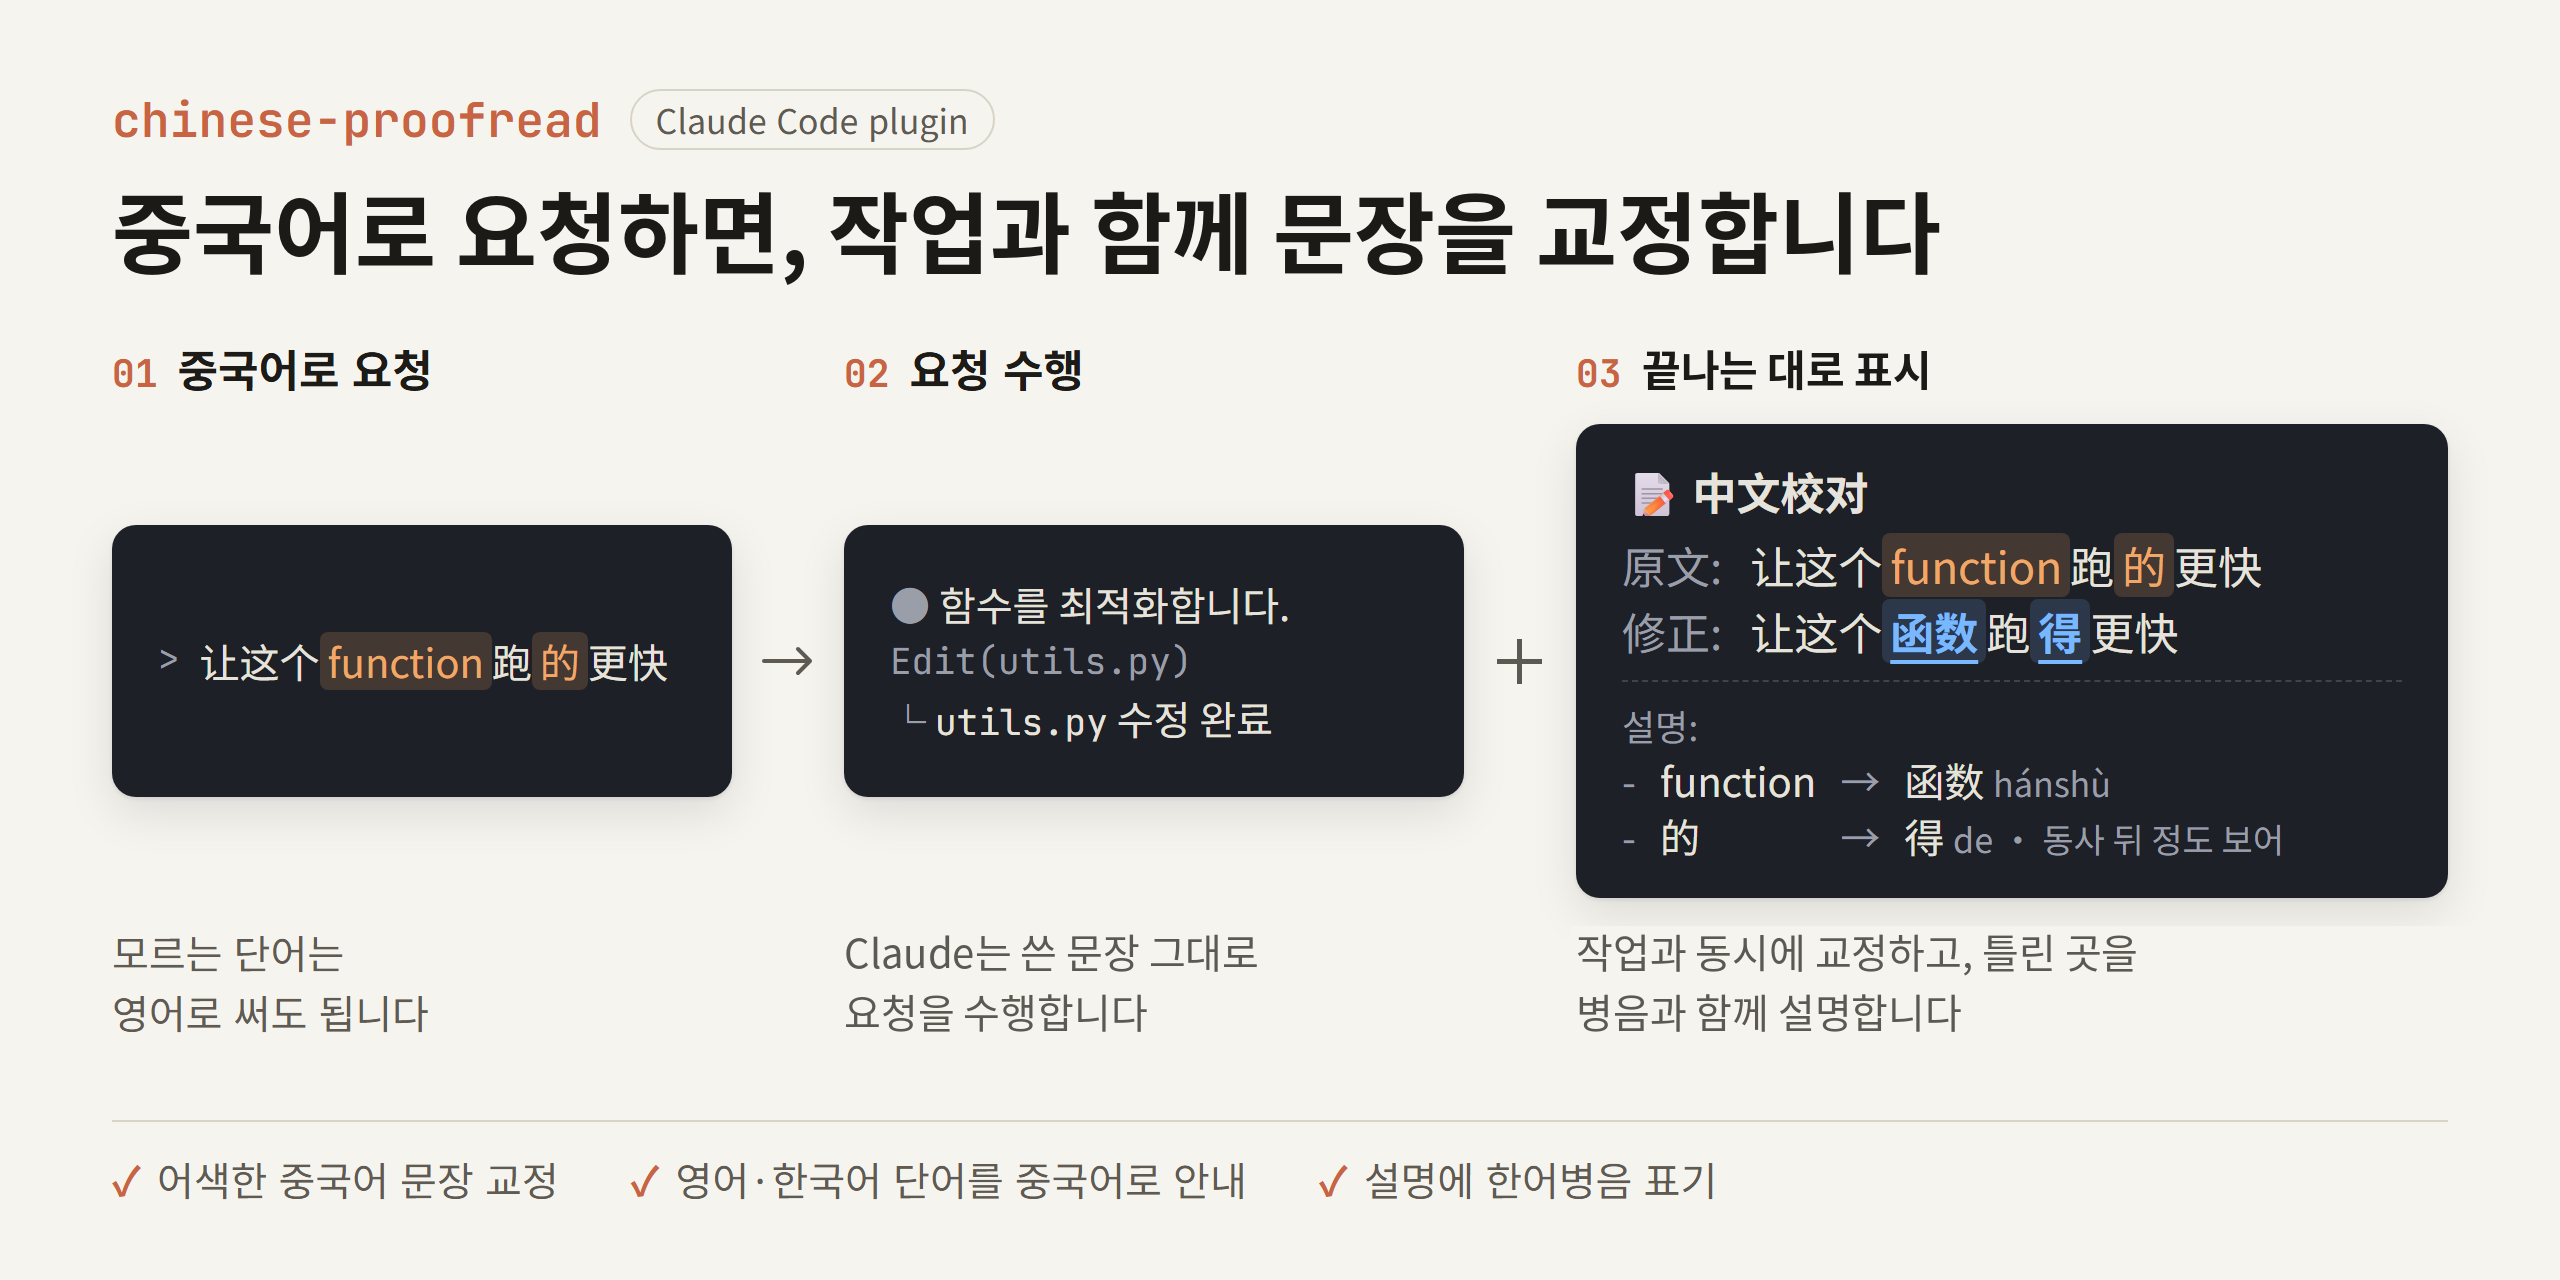
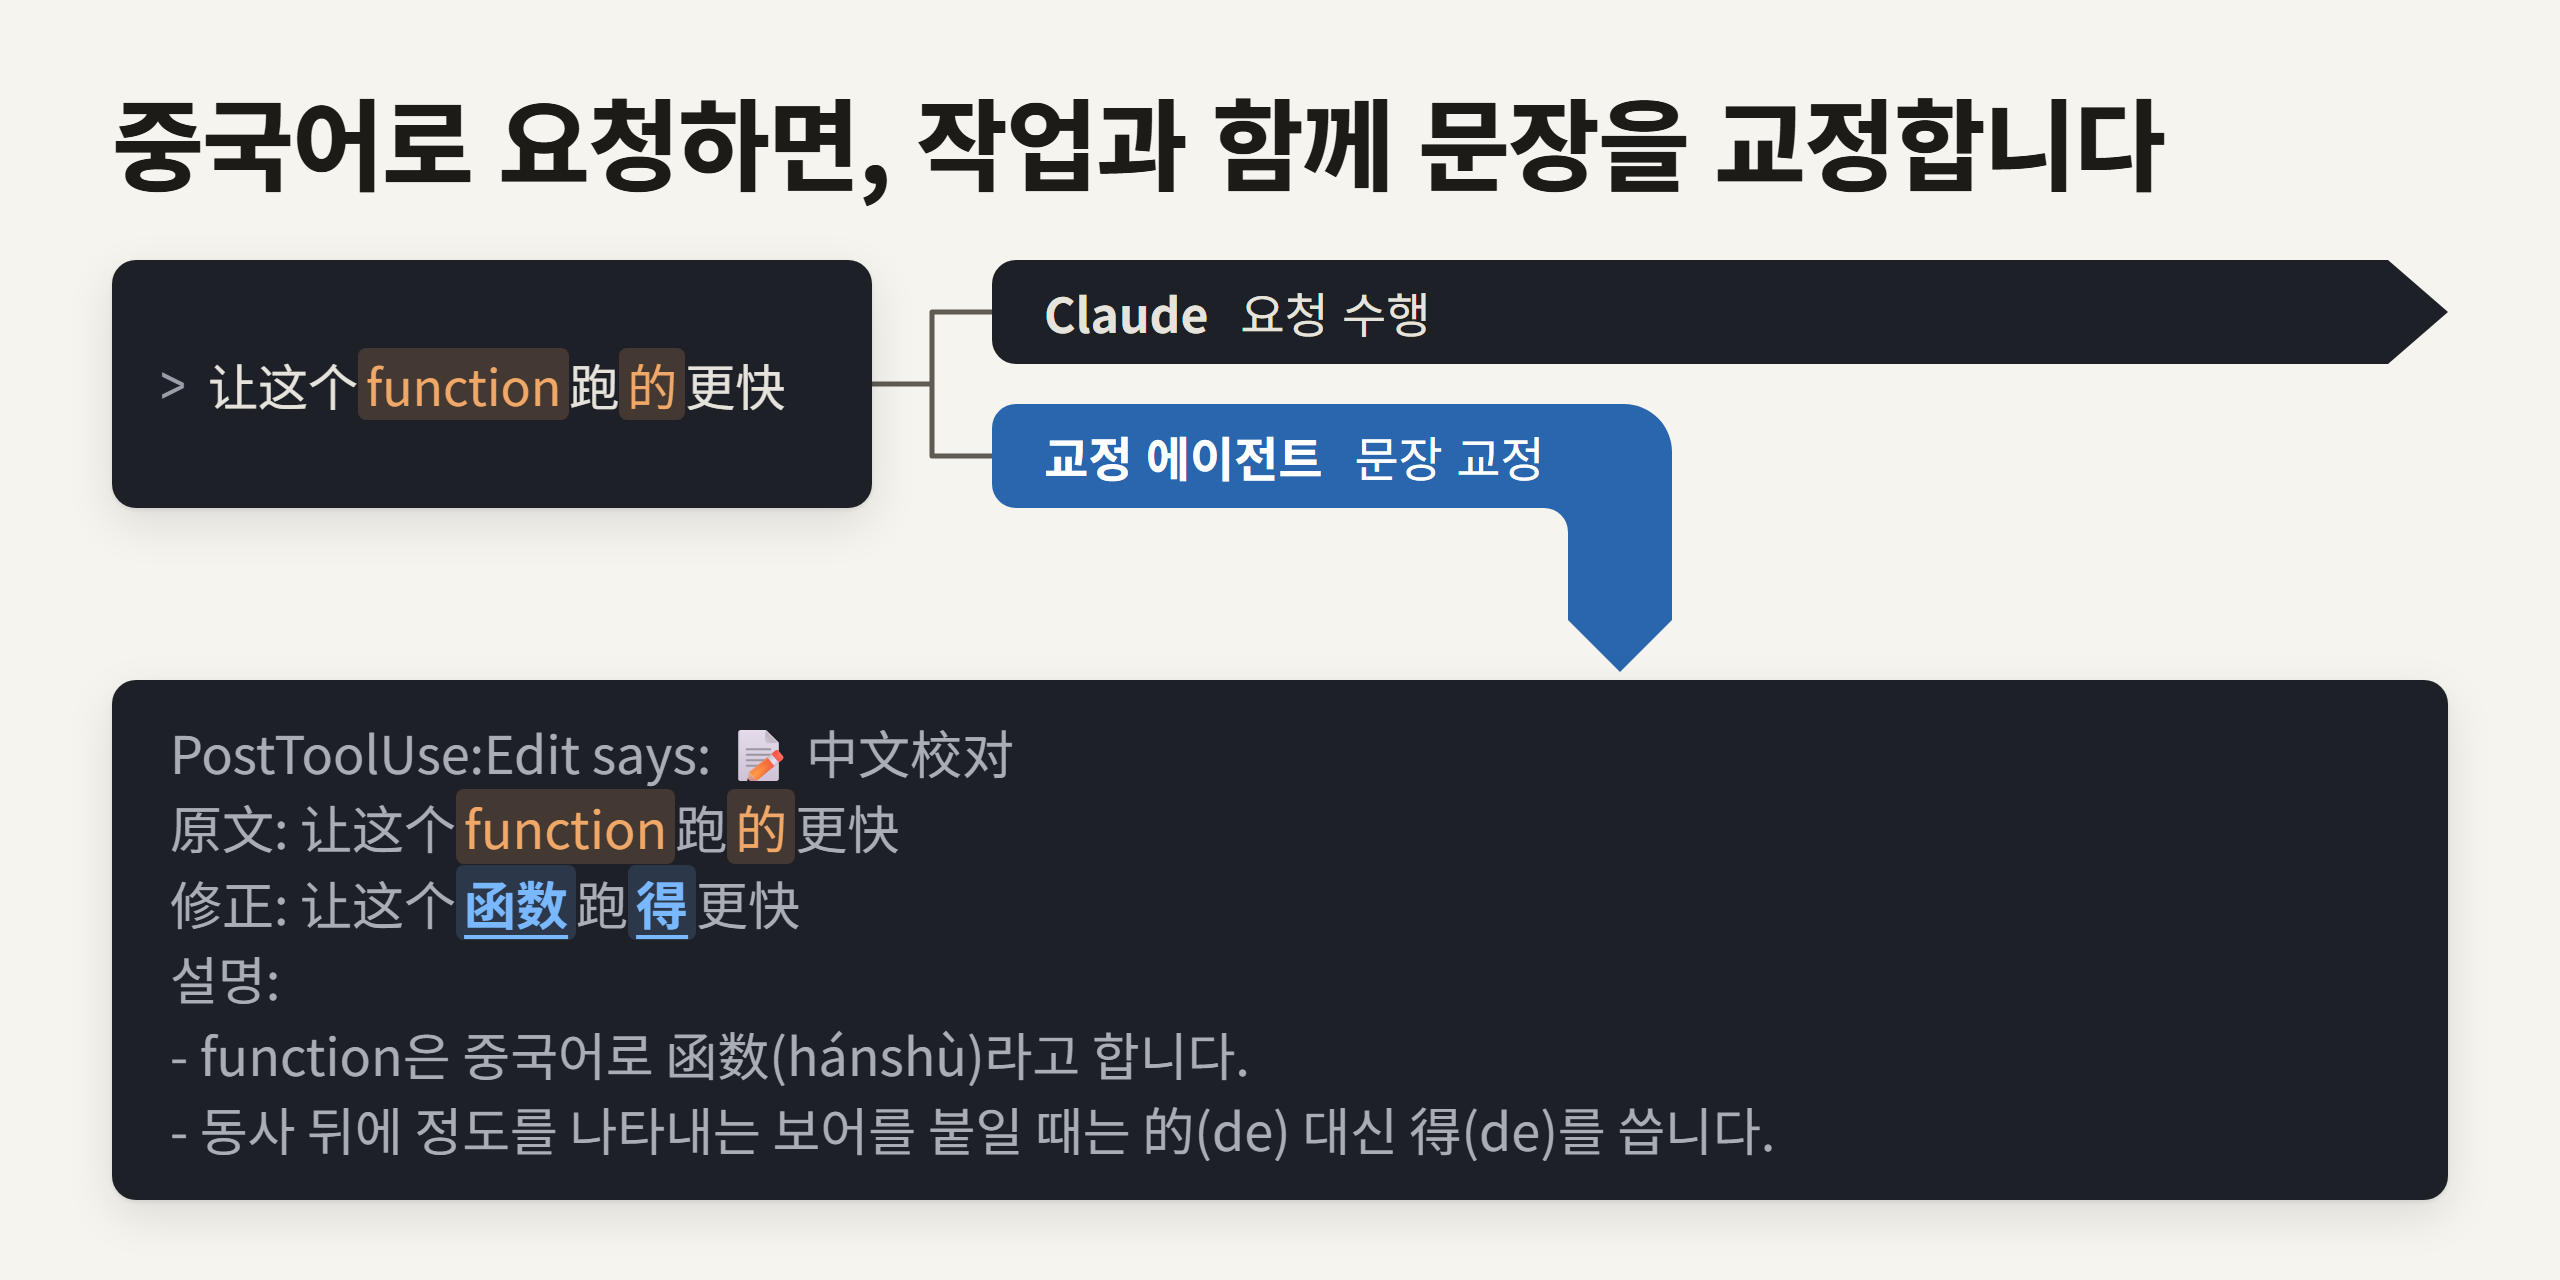
docs: README 대표 그림을 교정이 작업과 동시에 진행되는 흐름으로 교체
실제 플러그인 화면과 맞추려고 그림을 다시 그렸습니다. 이전 그림은
교정 결과를 선명한 색의 표 형식 설명으로 보여 주었지만, 실제로는
흐린 색으로 표시되고 `PostToolUse:Edit says:` 같은 머리글과
문장형 설명이 붙습니다.

요청이 Claude의 요청 수행과 교정 에이전트의 문장 교정으로 갈라져
동시에 진행되는 모습을 담았습니다. README.md의 img alt 문구도
새 그림에 맞게 고쳤습니다.

바뀐 단어를 표시하려고 주황·파랑 강조를 넣었으며, 이 강조는
실제 화면에는 없습니다.

diff --git a/README.md b/README.md
@@ -6,7 +6,7 @@ Claude Code로 개발하면서 중국어를 배우는 한국어 사용자를 대
 
 판별과 교정을 어떻게 설계하고 평가했는지는 [설계와 평가](#설계와-평가)에 정리했습니다.
 
-<img src="docs/images/readme-hero.png" width="880" alt="중국어 요청 让这个function跑的更快를 입력하면 Claude가 쓴 문장 그대로 요청을 수행하는 동시에, 별도의 교정 에이전트가 문장을 让这个函数跑得更快로 교정하여 function은 函数(hánshù)로, 的는 得로 고친 이유를 끝나는 대로 표시하는 흐름">
+<img src="docs/images/readme-hero.png" width="880" alt="중국어 요청 让这个function跑的更快가 Claude의 요청 수행과 교정 에이전트의 문장 교정으로 나뉘어 동시에 진행되고, Claude가 작업을 이어 가는 도중에 让这个函数跑得更快로 고친 교정 결과와 설명이 표시되는 흐름">
 
 ## 시작하기
 
